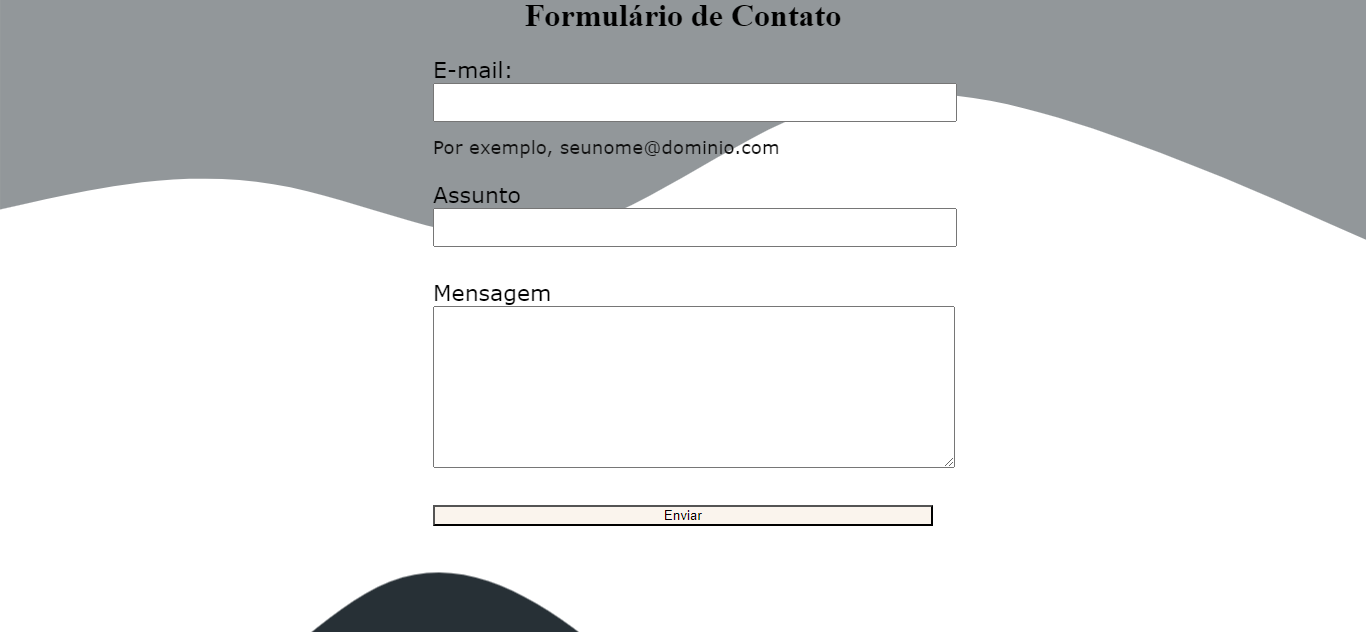
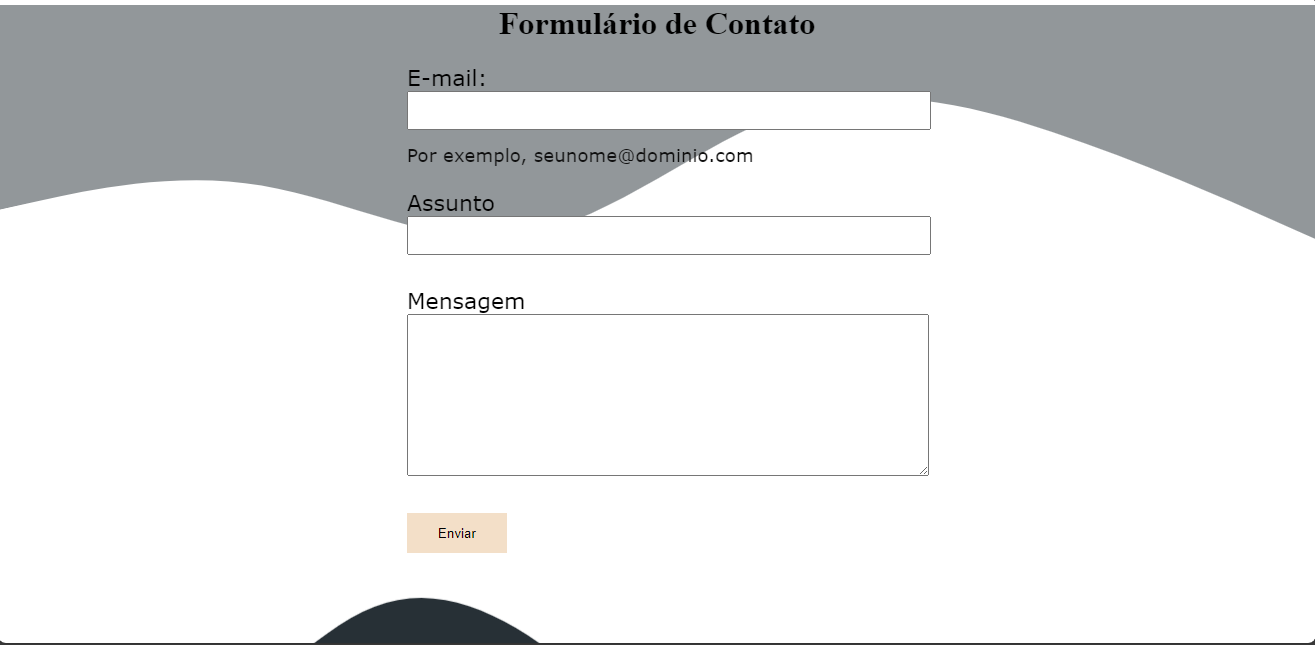
mudança do gif

diff --git a/form.css b/form.css
@@ -28,19 +28,18 @@ textarea{
 svg{
     width: 100%;
     height: auto;
-    position: fixed;
+    position:fixed;
     top: 1;
     left: 0;
     z-index: -1;
 }
 
 button {
-    width: 100%;
-    height: 50%;
-    position:25px;
-    z-index: 0;
-    left: 0;
-    background-color: rgb(250, 244, 237);
+    width: 100px;
+    height: 40px;
+    border: none;
+    text-align: 500px;
+    background-color: rgb(243, 223, 200);
 }
 
 span{
